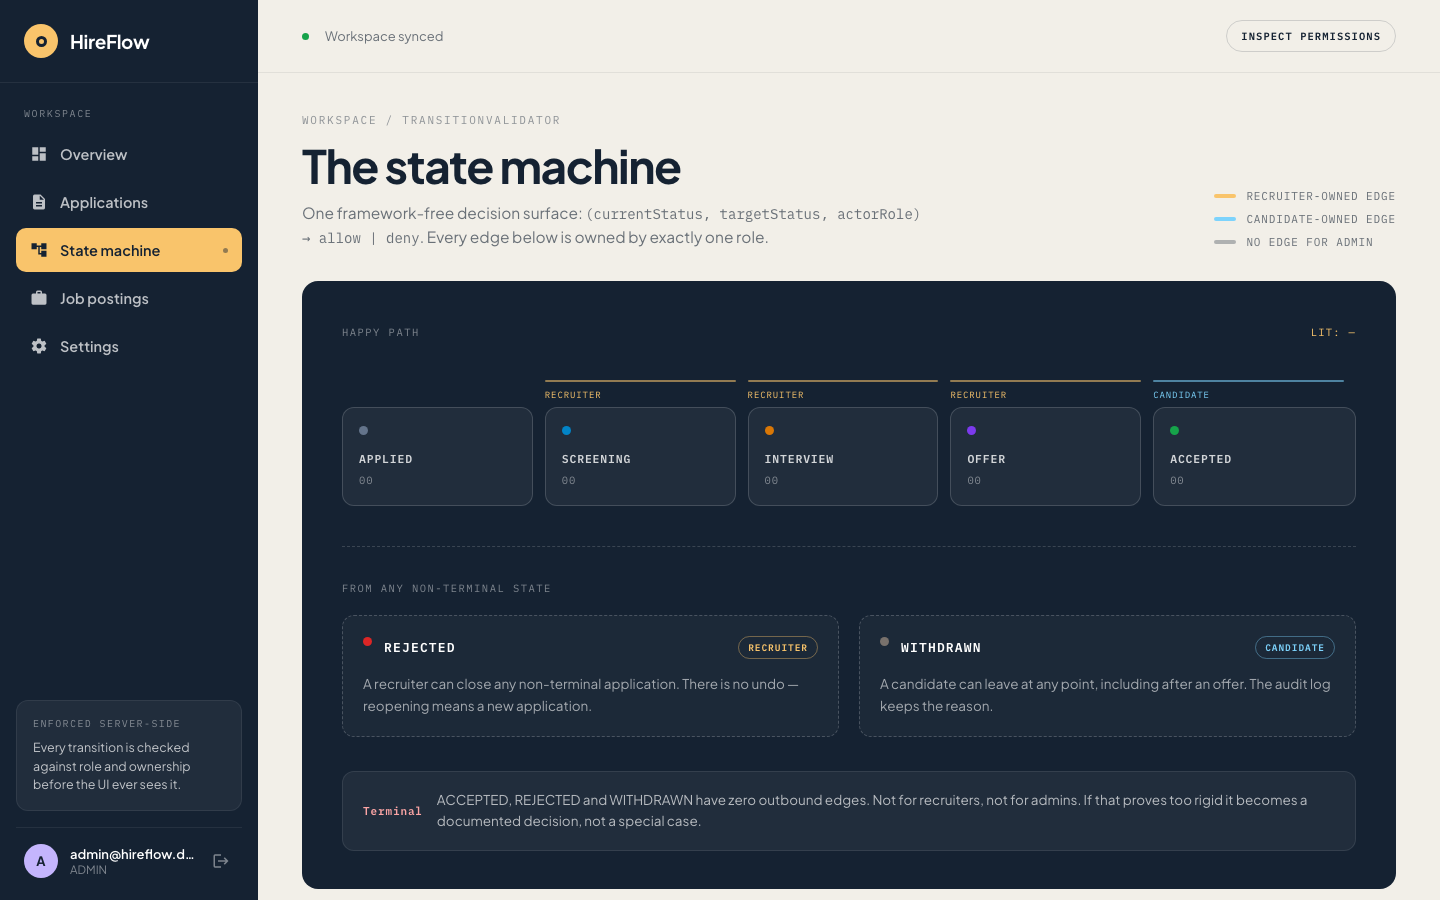
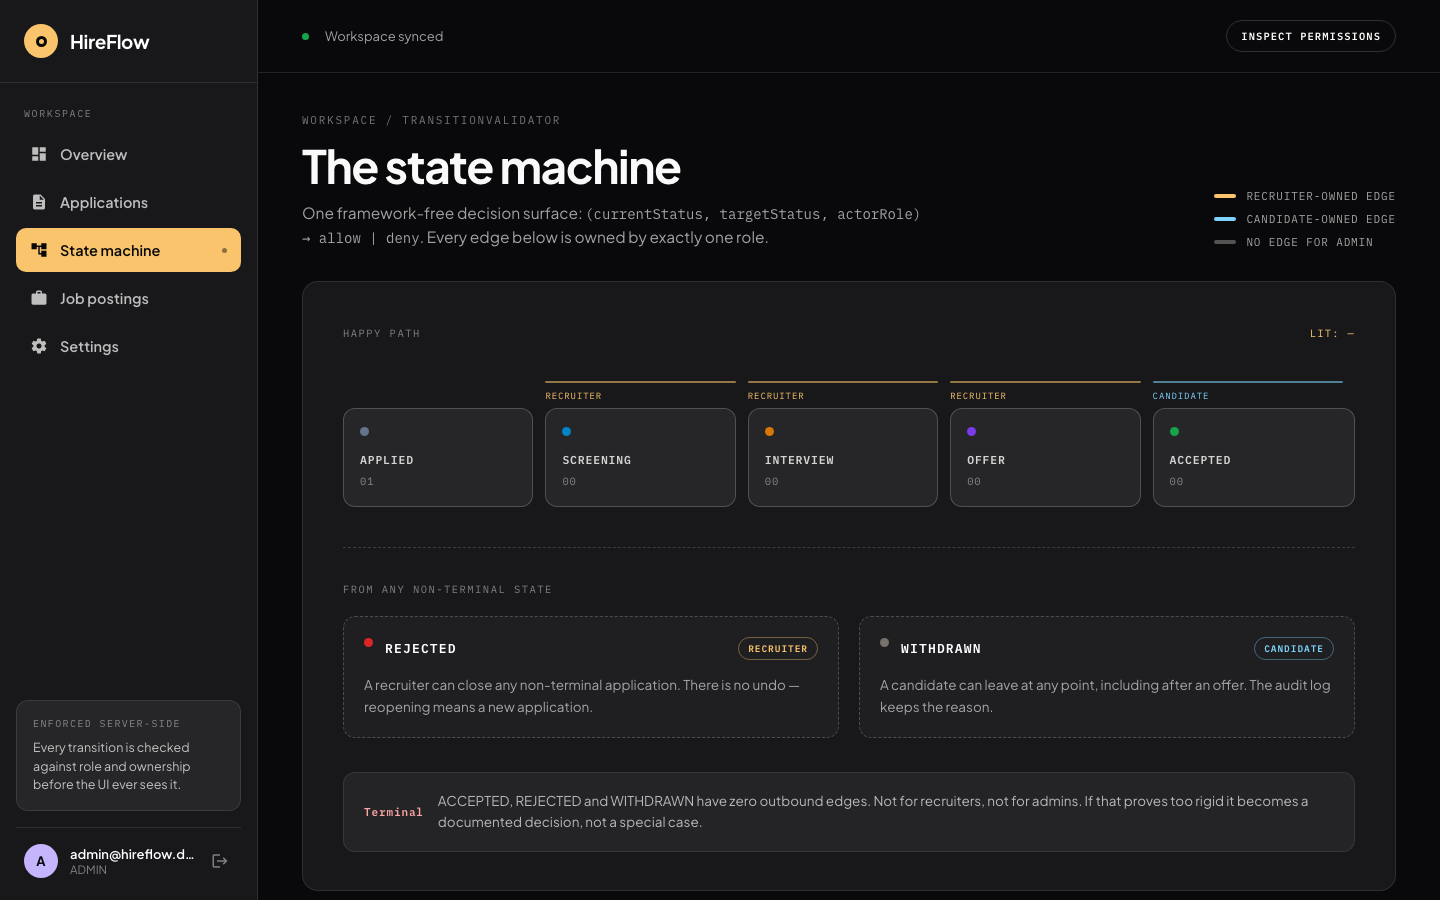
Update README and screenshots to match the dark theme redesign

diff --git a/e2e/screenshot-live.js b/e2e/screenshot-live.js
@@ -2,7 +2,7 @@
 // Not part of the test suite. Run with: node screenshot-live.js
 const { chromium } = require('@playwright/test');
 
-const BASE = 'https://hireflow-frontend-zg69.onrender.com';
+const BASE = 'https://hireflow-backend-c3mv.onrender.com';
 const OUT = '../docs/screenshots';
 
 async function main() {

diff --git a/README.md b/README.md
@@ -24,8 +24,9 @@ demo.
 
 **Frontend**: Angular 18+, standalone components (no NgModules), functional route guards +
 `HttpInterceptorFn`, RxJS for token-refresh coordination, no state-management library. A custom
-design system ("ApplyTrack": cream/ink-navy/amber, Plus Jakarta Sans + IBM Plex Mono) sits on top
-of Angular Material's form controls, restyled via global overrides. Karma/Jasmine for unit tests.
+dark design system (near-black surfaces, a single amber accent, Plus Jakarta Sans + IBM Plex Mono)
+sits on top of Angular Material's form controls, restyled via global overrides. Karma/Jasmine for
+unit tests.
 
 ## Project layout
 
@@ -166,11 +167,11 @@ Three real Angular patterns, not a design showcase:
 
 ![Postings grid](docs/screenshots/postings.png)
 
-**Design system.** Rebuilt to match a commissioned design ("ApplyTrack"): CSS custom properties as
-the single source of truth (`--bg`, `--ink`, `--accent`, per-status colors), Angular Material kept
-only where it's genuinely the right tool (form fields, selects, paginators), everything else
-(applications list, postings grid, sidebar, stepper, state-machine graph, modals) as plain custom
-components. Every authenticated route now renders role-adaptive content instead of being a
+**Design system.** CSS custom properties as the single source of truth (`--bg`, `--surface`,
+`--panel`, `--ink`, `--accent`, per-status colors), Angular Material kept only where it's
+genuinely the right tool (form fields, selects, paginators), everything else (applications list,
+postings grid, sidebar, stepper, state-machine graph, modals) as plain custom components. Every
+authenticated route now renders role-adaptive content instead of being a
 separate page per role; `roleGuard('ADMIN')` protects exactly one route, `/admin/users`. A
 client-side port of `TransitionValidator` (`shared/transition/transition-validator.ts`) drives
 which buttons render, but it's explicitly not authoritative: every transition still goes through
